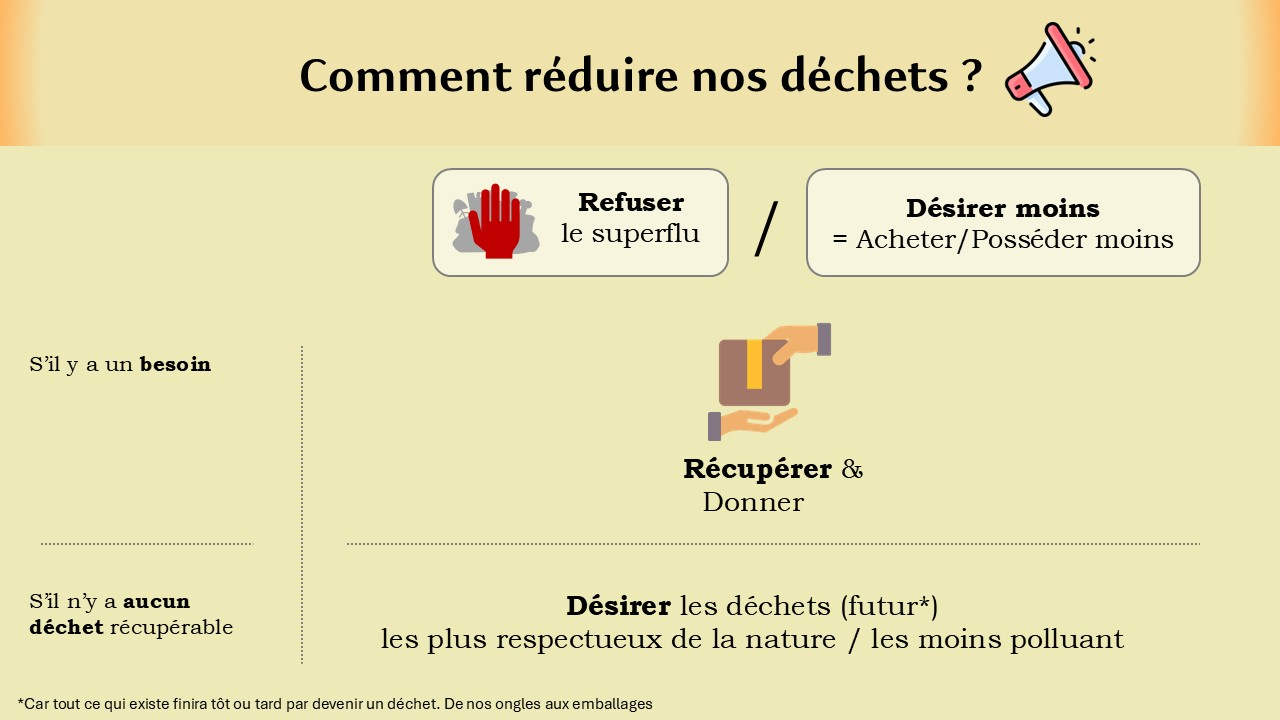
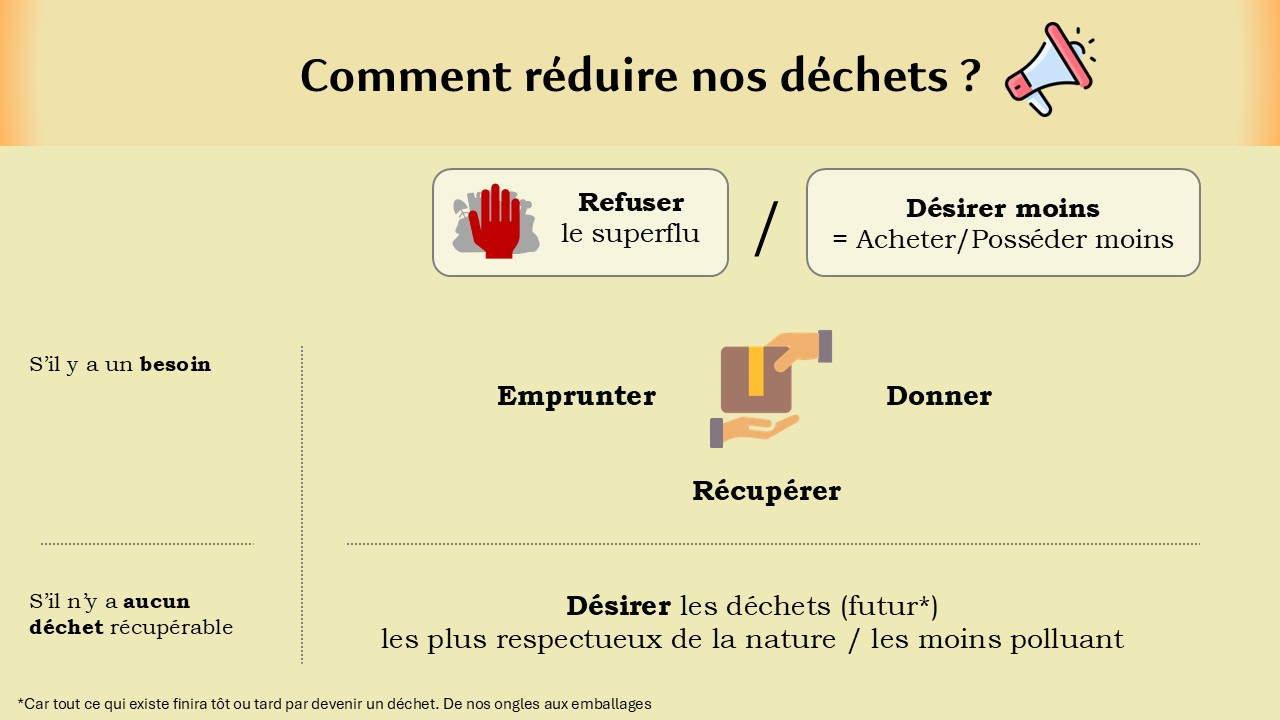
Quartz sync: Feb 8, 2026, 1:21 PM

diff --git a/content/Principes/Protéger la nature.md b/content/Principes/Protéger la nature.md
@@ -10,5 +10,5 @@ La mission du XXIe siècle
 
 # Personnes engagées
 - **Partager c'est sympa** (par Vincent Verzat) => <a href="https://www.youtube.com/@PartagerCestSympa" target="_blank">Ytube</a> - <a href="https://www.instagram.com/partager_cest_sympa/" target="_blank">Insta</a> - <a href="https://www.facebook.com/PartagerCestSympa/" target="_blank">Fbook</a>  
-  Avec son magnifique documentaire : <a href="https://www.youtube.com/watch?v=wYCzdDfjYbg"> Le VIVANT qui se défend</a>
+	- Avec son magnifique documentaire : <a href="https://www.youtube.com/watch?v=wYCzdDfjYbg">Le VIVANT qui se défend</a> (page <a href="https://fr.tipeee.com/le-vivant-qui-se-defend">tipeee</a>)
 - **Sur le front** (par Hugo Clément (<a href="https://www.instagram.com/hugoclementk/" target="_blank">Insta</a>)) => <a href="https://www.youtube.com/@surlefrontavechugoclement" target="_blank">Ytube</a> - <a href="https://www.france.tv/france-5/sur-le-front/" target="_blank">France TV</a>

diff --git a/content/Réflexions (blog)/Protection de la nature (présentation de sensibilisation).md b/content/Réflexions (blog)/Protection de la nature (présentation de sensibilisation).md
@@ -12,6 +12,19 @@ Aussi, n'hésitez pas à me contacter si vous souhaitez que j'anime cette prése
 
 # Principes
 - [[Protéger la nature]]
+
+# Ressources (Ytube)
+*Documentaire*  
+- <a href="https://www.youtube.com/watch?v=wYCzdDfjYbg">Le VIVANT qui se défend</a> par Vincent Verzat de **Partager c'est sympa**
+
+*Vidéos de la présentation*  
+- <a href="https://www.youtube.com/watch?v=gnqc37adZFQ">Le 7ème continent</a>, Initiative.fr
+- <a href="https://www.youtube.com/watch?v=Tr2Wj5ssrC0">Environnement un océan de déchet</a>, France 2
+- <a href="https://www.youtube.com/watch?v=TsfcEoeNY74">A Bottles Odyssey</a>, UN Environnement Programme  
+
+*Conférence*
+- <a href="https://www.youtube.com/watch?v=mHYA0o0MBTs">Le CV de la nature</a>, TEDx par Idriss Aberkane  
+
 ***
 
 ![[Protection de la nature - diapo1.JPG]]

diff --git a/content/Principes/Faire & Être.md b/content/Principes/Faire & Être.md
@@ -11,7 +11,3 @@ Une fois que tu as bien pris le temps d'écouter, essaye de comprendre. Puis c'e
 
 # Principes
 - [[Écoute et ferme ta gueule]]
-
-# Réflexions
-\> [[''T'es gênant'' la pire phrase]] - **Être soi-même** ou du moins **être considéré "anormal"** peut nous confronter à des remarques du style : "T'es gênant", "T'es bizarre", "T'es nul", "Oh regardez le looser". Les personnes qui prononcent ces phrases sont souvent des personnes ayant une faible estime d'eux-même, jaloux, et cherche à s'élever en rabaissant l'autre.
-La solution pour désamorcer ce genre de situation est l'autodérision. La maîtriser est tout un art.
